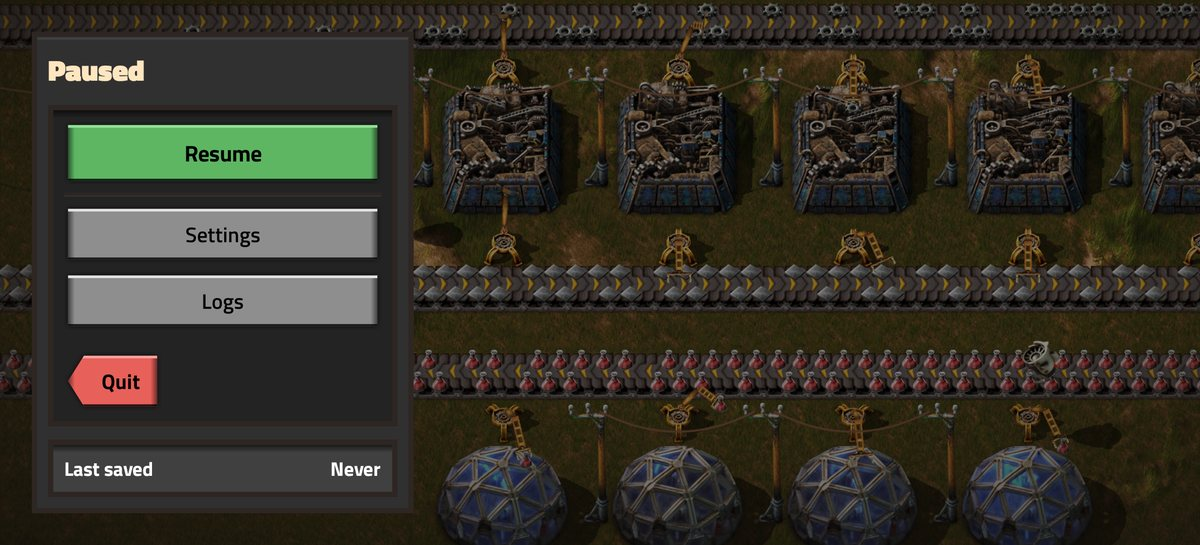
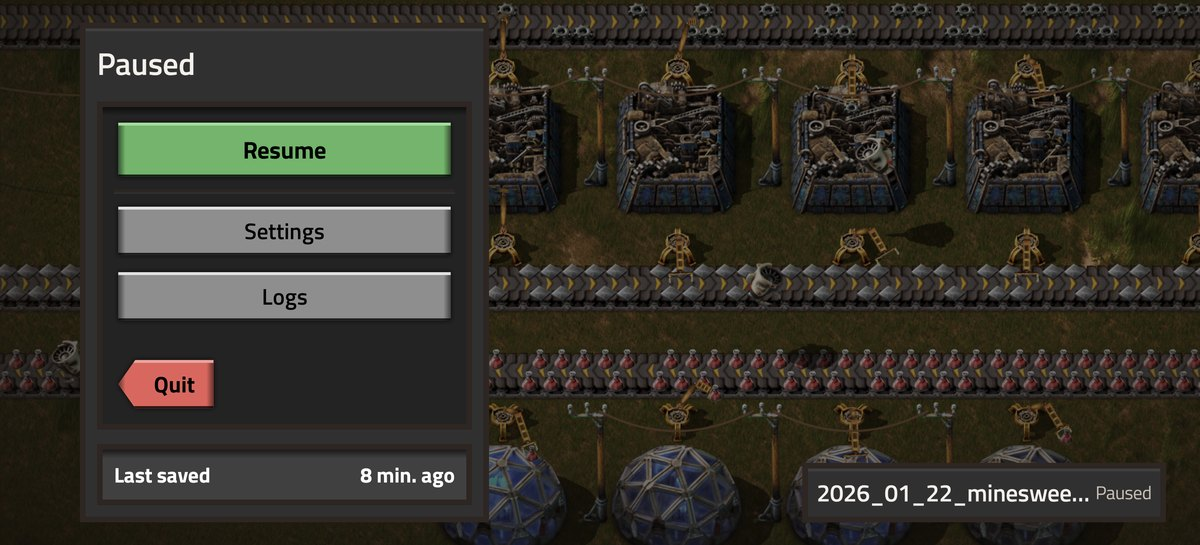
Fresh in-game screenshots; no empty frame for saves without a picture
The README's playing and pause screenshots are retaken on the current build. Saves from servers often carry no preview, and the save card showed an empty frame for them; it now shows just the name.

diff --git a/app/src/main/java/app/pocketfoundry/LauncherActivity.kt b/app/src/main/java/app/pocketfoundry/LauncherActivity.kt
@@ -80,6 +80,7 @@ class LauncherActivity : Activity() {
     private lateinit var cardName: TextView
     private lateinit var cardTime: TextView
     private lateinit var cardImage: ImageView
+    private lateinit var cardFrame: View
 
     private lateinit var settings: View
     private lateinit var resolution: Dropdown
@@ -264,6 +265,7 @@ class LauncherActivity : Activity() {
         cardImage = ImageView(this).apply { scaleType = ImageView.ScaleType.CENTER_CROP }
         frame.addView(cardImage, LinearLayout.LayoutParams(MATCH, dpi(118)))
         save.addView(frame)
+        cardFrame = frame
         card = save
         root.addView(save, FrameLayout.LayoutParams(dpi(256), WRAP, Gravity.END or Gravity.BOTTOM).apply { setMargins(0, 0, dpi(24), dpi(16)) })
         return root
@@ -460,7 +462,12 @@ class LauncherActivity : Activity() {
         cardImage.setImageDrawable(null)
         thread(name = "pocketfoundry-preview") {
             val bitmap = Saves.preview(save, 3)
-            runOnUiThread { if (previewOf == key) cardImage.setImageBitmap(bitmap) }
+            runOnUiThread {
+                if (previewOf != key) return@runOnUiThread
+                cardImage.setImageBitmap(bitmap)
+                // Saves from servers often carry no picture: then the card is just the name, not an empty frame.
+                cardFrame.visibility = if (bitmap != null) View.VISIBLE else View.GONE
+            }
         }
     }
 

diff --git a/NOTES.md b/NOTES.md
@@ -614,3 +614,8 @@ a stitched pocket, a belt. The furnace won: it is what a foundry is, and its glo
 home-screen size. The foreground is that render, blueprint paper included (so it is opaque); the notification and
 themed icons are the same furnace drawn flat (`drawable/ic_notification.xml`, `ic_launcher_monochrome.xml`), and
 `tools/icon_png.py` now draws Termux:X11's monochrome layer from it instead of the foreground's alpha.
+
+### Saves without a picture
+Saves from servers (the refactorio ones, for instance) carry no `preview.jpg`, and the save card drew an empty frame
+under the name. The frame now hides when there is no picture. The README's playing and pause screenshots were retaken
+on the current build, with the Minesweeper save (a player's name in a tooltip painted out).
